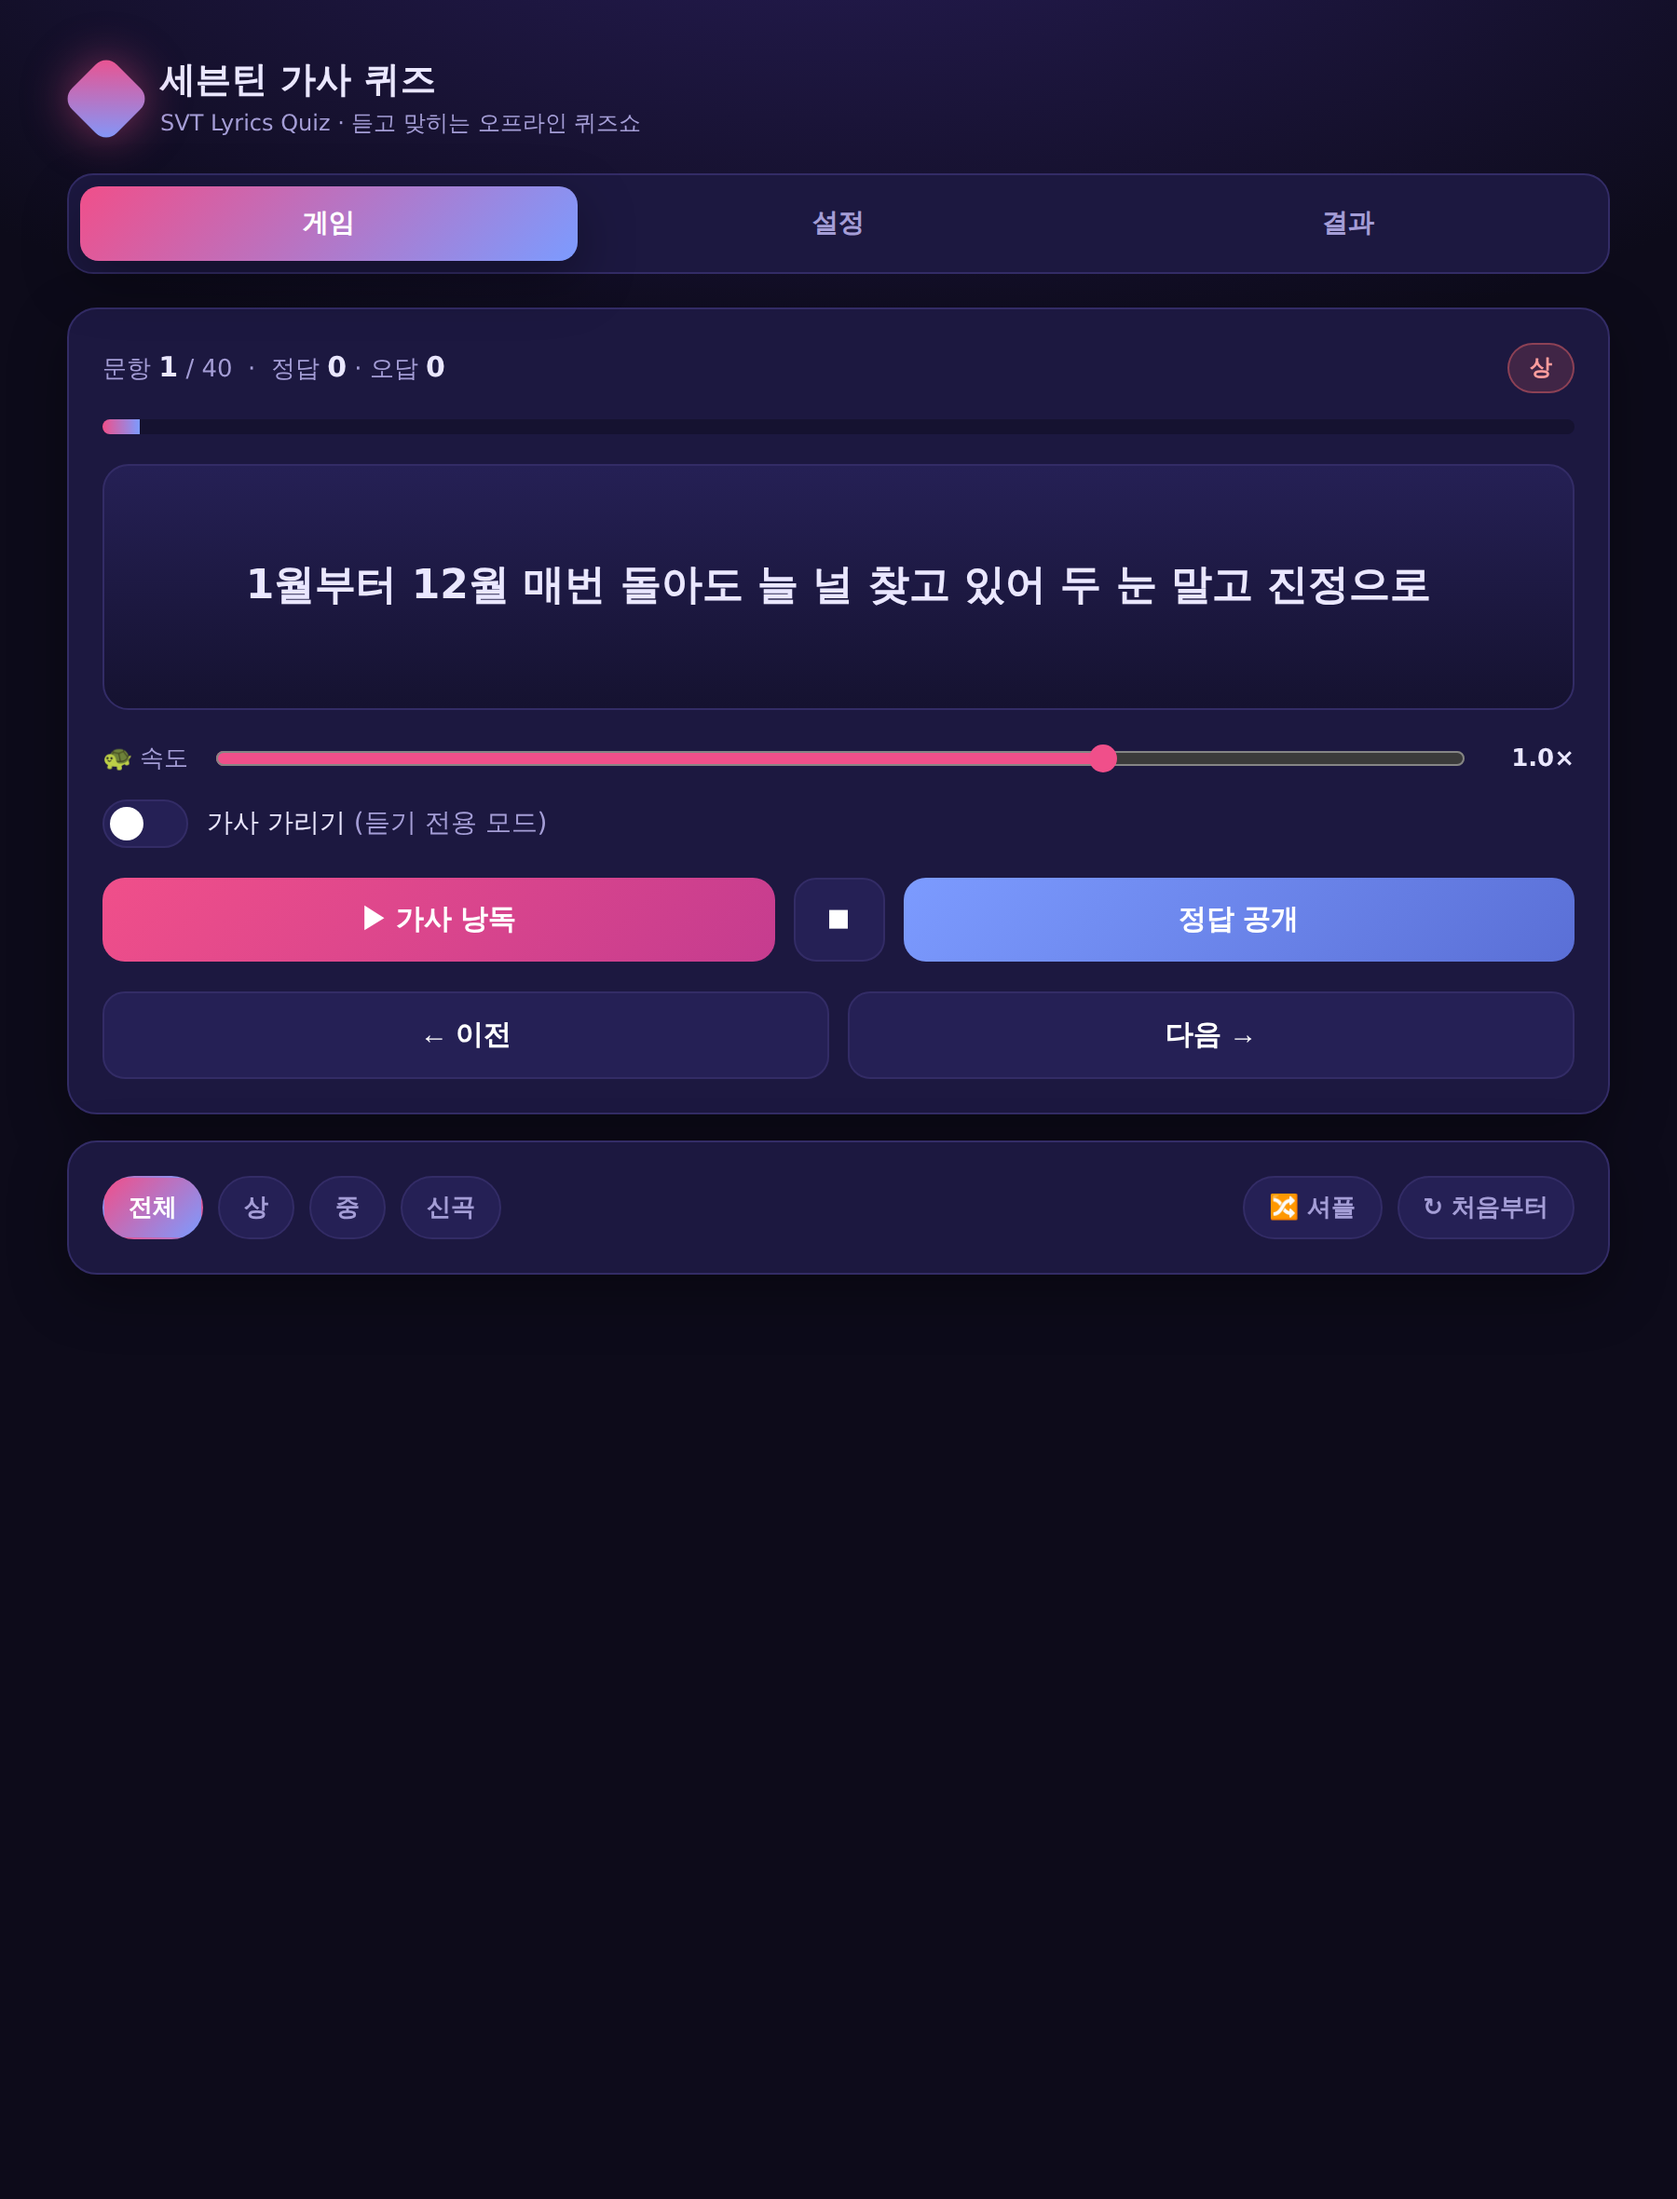
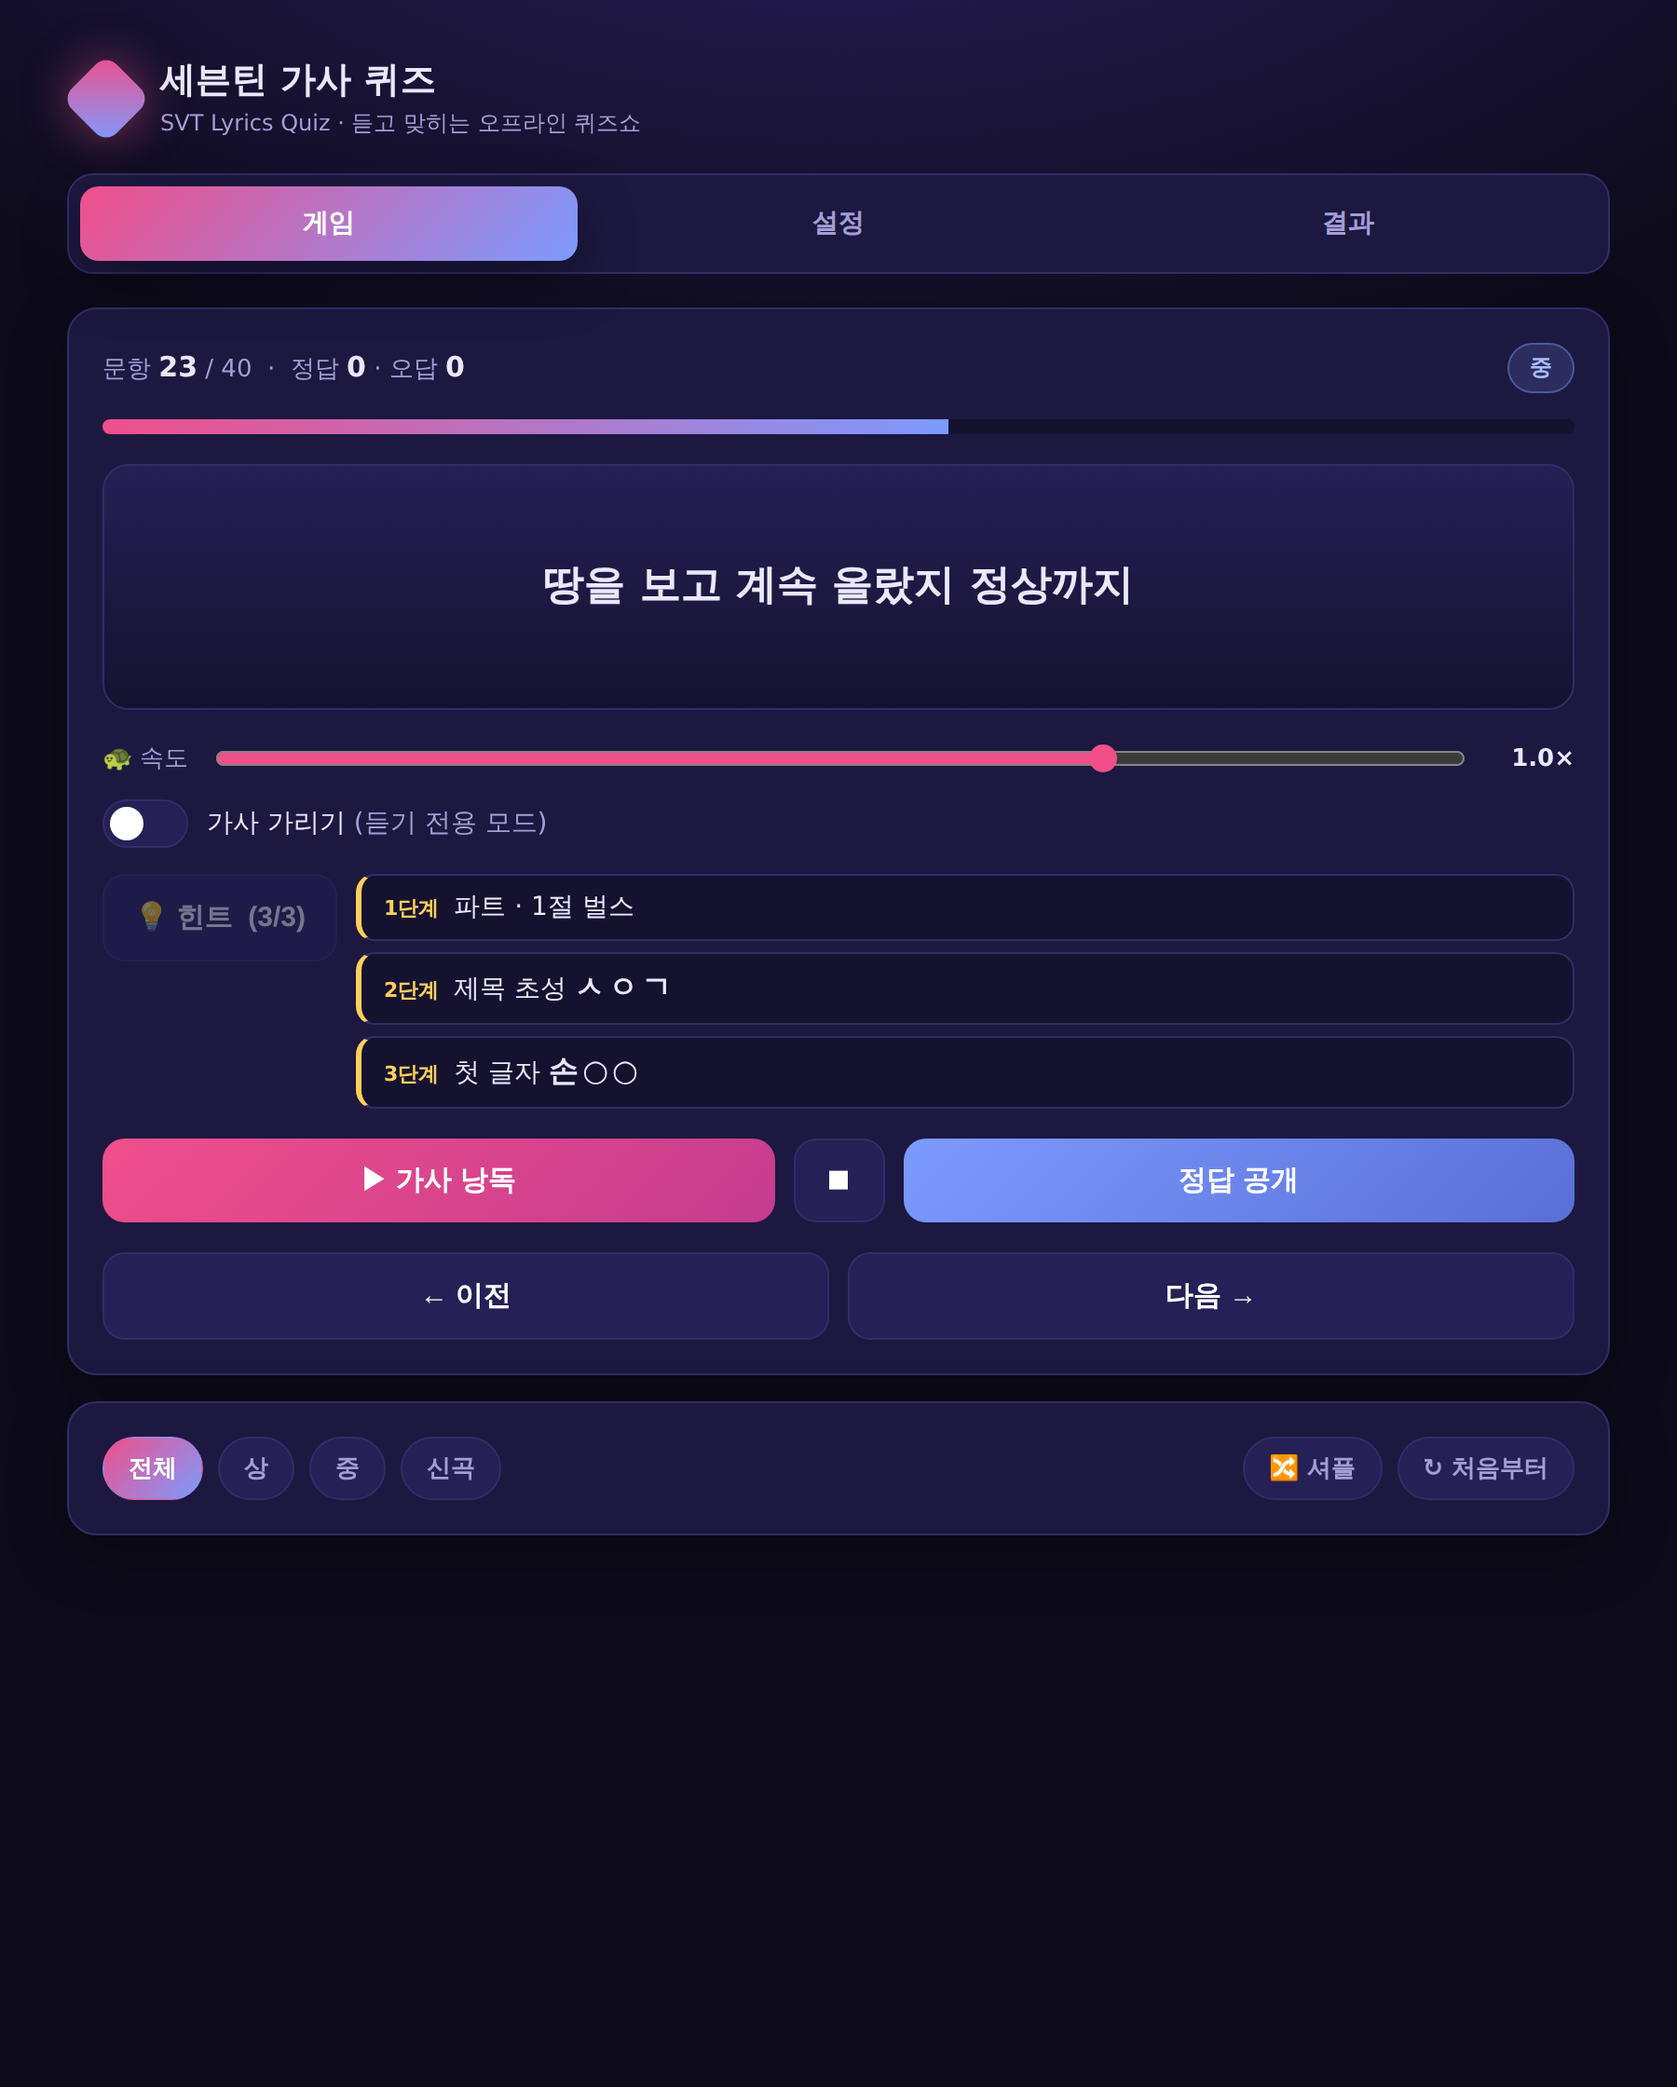
문항별 3단계 힌트 추가
게임 화면에 '💡 힌트' 버튼 추가 — 클릭 시 약→중→강 3단계 힌트를 순차 공개:
1단계 파트/유닛, 2단계 제목 초성(한글 초성/영문 이니셜 자동 생성), 3단계 첫 글자 공개.
문항 이동 시 초기화. README·스크린샷 갱신.

Claude-Session: https://claude.ai/code/session_01BoVUxZZ7QKP6hKgrZ25vGv

Changed region(s): [[0.0311, 0.25, 0.9644, 0.75], [0.0311, 0.0312, 0.9644, 0.2188], [0.8711, 0.0625, 0.9644, 0.0938]]

diff --git a/index.html b/index.html
@@ -180,6 +180,15 @@
     .row3 .f-name,.row3 .f-part{flex:1 1 100%}
     .row3 .f-diff{width:100%}
   }
+  /* ---- 힌트 ---- */
+  .hint-area{display:flex;align-items:flex-start;gap:10px;margin-top:14px;flex-wrap:wrap}
+  .hint-area > button{flex:none}
+  .hints{display:flex;flex-direction:column;gap:6px;flex:1;min-width:200px}
+  .hint-chip{background:var(--bg2);border:1px solid var(--line);border-left:3px solid var(--gold);border-radius:10px;padding:8px 12px;font-size:14px;animation:fade .25s ease;display:flex;gap:8px;align-items:baseline}
+  .hint-chip .hk{font-size:11px;font-weight:800;color:var(--gold);flex:none}
+  .hint-chip .hv{color:var(--txt)}
+  .hint-chip .hv b{letter-spacing:2px;font-size:16px}
+
   /* ---- 저장 슬롯 ---- */
   .slot-save-row{display:flex;gap:8px;margin-bottom:12px}
   .slot-save-row input{flex:1;background:var(--panel);border:1px solid var(--line);border-radius:10px;color:var(--txt);padding:10px 12px;font-size:14px}
@@ -282,6 +291,11 @@
       <div class="toggle-row">
         <label class="switch"><input type="checkbox" id="g-hide" /><span class="slider"></span></label>
         <span style="font-size:14px">가사 가리기 <span style="color:var(--muted)">(듣기 전용 모드)</span></span>
+      </div>
+
+      <div class="hint-area">
+        <button class="btn btn-ghost btn-sm" id="g-hint">💡 힌트 <span id="g-hint-n">(0/3)</span></button>
+        <div class="hints" id="g-hints"></div>
       </div>
 
       <div class="controls">
@@ -747,6 +761,52 @@ const els={
 
 function songById(id){ return songs.find(s=>s.id===id); }
 
+/* ---- 3단계 힌트 (곡 메타에서 자동 생성) ---- */
+const CHOSEONG=["ㄱ","ㄲ","ㄴ","ㄷ","ㄸ","ㄹ","ㅁ","ㅂ","ㅃ","ㅅ","ㅆ","ㅇ","ㅈ","ㅉ","ㅊ","ㅋ","ㅌ","ㅍ","ㅎ"];
+function toChoseong(str){
+  let out=[], prevSpace=true;
+  for(const ch of str){
+    const c=ch.charCodeAt(0);
+    if(c>=0xAC00 && c<=0xD7A3){ out.push(CHOSEONG[Math.floor((c-0xAC00)/588)]); prevSpace=false; }
+    else if(/[A-Za-z]/.test(ch)){ if(prevSpace) out.push(ch.toUpperCase()); prevSpace=false; }
+    else if(/\s/.test(ch)){ out.push(" "); prevSpace=true; }
+    else { out.push(ch); prevSpace=false; }
+  }
+  return out.join("").replace(/\s+/g," ").trim();
+}
+function primaryTitle(name){ const i=name.indexOf("("); return (i>0? name.slice(0,i):name).trim(); }
+function maskTitle(t){
+  let shown=false;
+  return [...t].map(ch=>{ if(/\s/.test(ch)) return " "; if(!shown){ shown=true; return ch; } return "○"; }).join("");
+}
+function buildHints(song){
+  const t=primaryTitle(song.name);
+  return [
+    {k:"1단계", v:"파트 · "+escapeHtml(song.part)},
+    {k:"2단계", v:"제목 초성 <b>"+escapeHtml(toChoseong(t))+"</b>"},
+    {k:"3단계", v:"첫 글자 <b>"+escapeHtml(maskTitle(t))+"</b>"},
+  ];
+}
+let hintLevel=0;
+function renderHints(){
+  const box=document.getElementById("g-hints");
+  const nEl=document.getElementById("g-hint-n");
+  const btn=document.getElementById("g-hint");
+  if(!box) return;
+  box.innerHTML="";
+  if(order.length===0){ nEl.textContent="(0/3)"; btn.disabled=true; return; }
+  const hints=buildHints(songById(order[pos]));
+  for(let i=0;i<hintLevel && i<hints.length;i++){
+    const d=document.createElement("div"); d.className="hint-chip";
+    d.innerHTML='<span class="hk">'+hints[i].k+'</span><span class="hv">'+hints[i].v+'</span>';
+    box.appendChild(d);
+  }
+  nEl.textContent="("+hintLevel+"/3)";
+  btn.disabled = hintLevel>=3;
+}
+function revealHint(){ if(order.length===0) return; if(hintLevel<3){ hintLevel++; renderHints(); } }
+function resetHints(){ hintLevel=0; renderHints(); }
+
 function buildOrder(filter, shuffle){
   let list=songs.map(s=>s.id);
   if(filter && filter!=="all") list=list.filter(id=>songById(id).diff===filter);
@@ -771,7 +831,7 @@ function renderGame(){
   if(total===0){
     els.index.textContent=0;
     els.lyric.innerHTML='<span class="placeholder">선택한 난이도에 해당하는 문항이 없습니다.</span>';
-    els.bar.style.width="0%"; hideAnswer(); stopTimer(); return;
+    els.bar.style.width="0%"; hideAnswer(); stopTimer(); resetHints(); return;
   }
   if(pos>=total) pos=total-1; if(pos<0) pos=0;
   const id=order[pos]; const song=songById(id); const c=getC(id);
@@ -783,7 +843,7 @@ function renderGame(){
   if(c.lyrics && c.lyrics.trim()) els.lyric.textContent=c.lyrics.trim();
   else els.lyric.innerHTML='<span class="placeholder">이 문항의 가사가 아직 입력되지 않았습니다.<br>설정 탭에서 입력하세요.</span>';
 
-  applyHide(); hideAnswer(); updateCounters(); resetTimer();
+  applyHide(); hideAnswer(); updateCounters(); resetTimer(); resetHints();
 }
 
 function renderTeamBoard(){
@@ -926,6 +986,7 @@ els.hide.addEventListener("change",applyHide);
 document.getElementById("g-play").addEventListener("click",speak);
 document.getElementById("g-stopread").addEventListener("click",()=>{ stopTTS(); stopTimer(); });
 document.getElementById("g-reveal").addEventListener("click",showAnswer);
+document.getElementById("g-hint").addEventListener("click",revealHint);
 document.getElementById("g-video-reload").addEventListener("click",reloadVideo);
 document.getElementById("g-mark-correct").addEventListener("click",()=>mark("correct"));
 document.getElementById("g-mark-wrong").addEventListener("click",()=>mark("wrong"));

diff --git a/README.md b/README.md
@@ -100,6 +100,7 @@ https://alfira0526.github.io/SVT_Lyrics/
 |---|---|
 | 🔊 **TTS 낭독 + 속도 조절** | `SpeechSynthesis`로 가사를 읽어줍니다. 0.5~1.2배 속도(느리게=난이도↓, 빠르게=난이도↑) |
 | 🙈 **가사 가리기 토글** | 화면의 가사를 흐리게 처리 → 듣기만으로 맞히는 변별 모드 |
+| 💡 **3단계 힌트** | 문항마다 약→중→강 힌트: ① 파트/유닛 → ② 제목 초성 → ③ 첫 글자 공개 |
 | 🎬 **정답 공개 + MV 타임스탬프** | 곡명·파트 표시 후 등록된 유튜브 MV를 **지정 시작 시간부터 자동재생** |
 | ✍ **사회자 수동 채점** | 구어·약칭·영문/한글 표기 혼용 응답을 유연하게 인정 (자동 채점의 오판정 방지) |
 | 🎚 **난이도 필터 / 셔플** | 상·중·신곡만 골라 출제하거나 순서를 랜덤화 |
